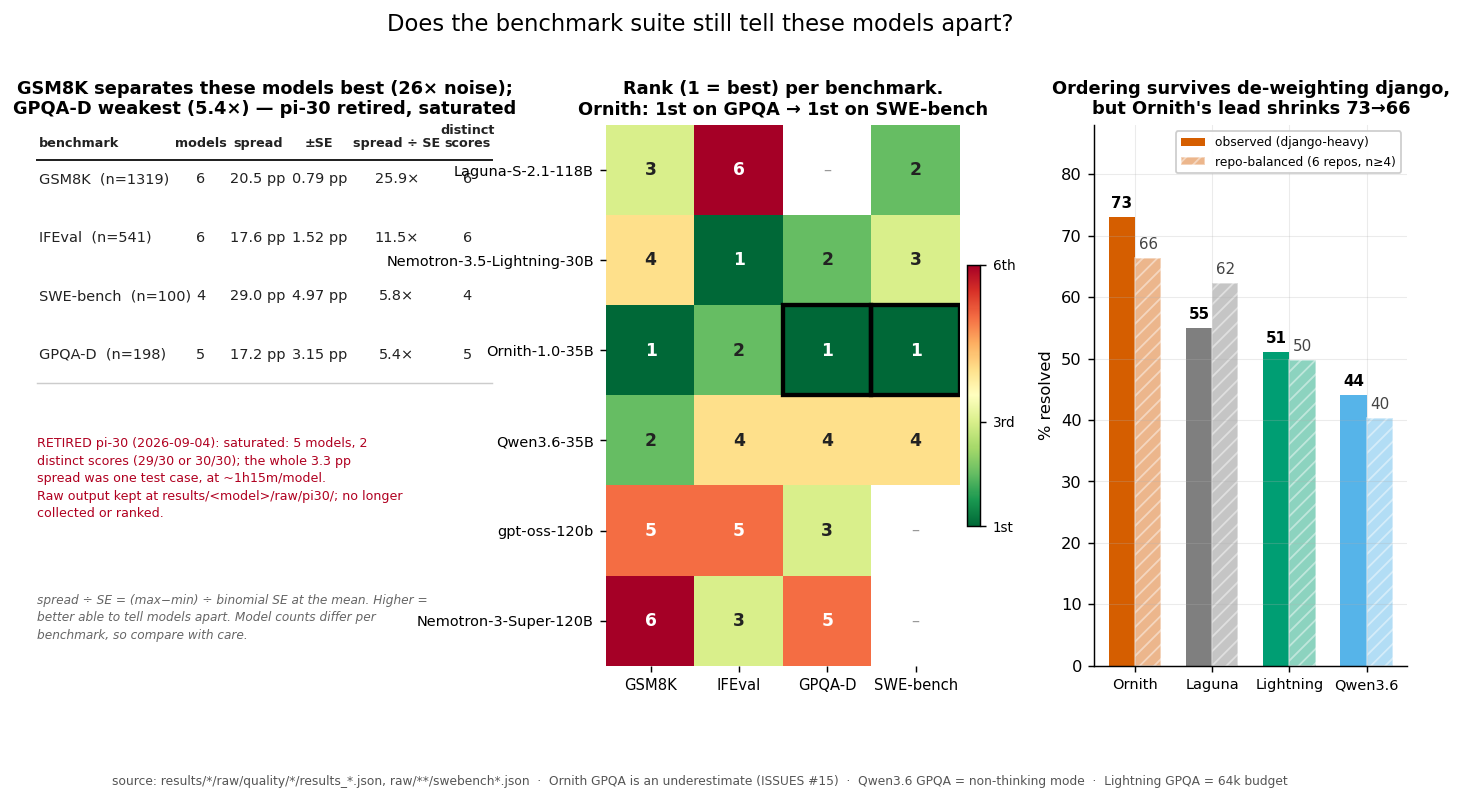
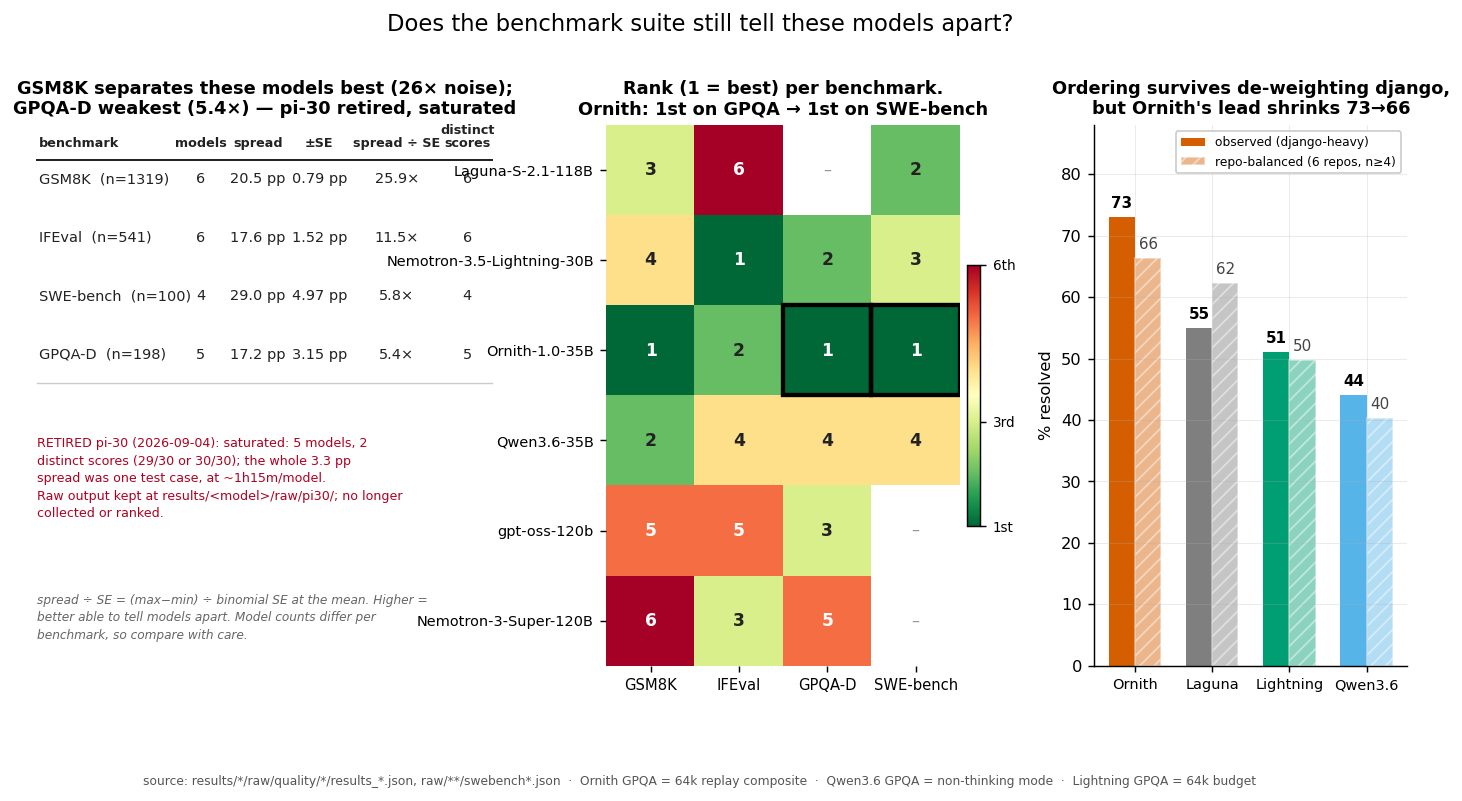
docs: clean stale benchmark guidance (#4)

Changed region(s): [[0.0923, 0.9675, 0.8926, 0.9988]]

diff --git a/viz/fig3_discrimination.py b/viz/fig3_discrimination.py
@@ -210,7 +210,7 @@ def main() -> None:
                  fontsize=12.5, y=1.04)
     fig.text(0.5, -0.06,
              "source: results/*/raw/quality/*/results_*.json, "
-             "raw/**/swebench*.json  \u00b7  Ornith GPQA is an underestimate (ISSUES #15)  \u00b7  "
+             "raw/**/swebench*.json  ·  Ornith GPQA = 64k replay composite  ·  "
              "Qwen3.6 GPQA = non-thinking mode  \u00b7  Lightning GPQA = 64k budget",
              ha="center", fontsize=6.8, color="#555")
     save(fig, "fig3_discrimination")

diff --git a/README.md b/README.md
@@ -57,7 +57,7 @@ django-heavy sample (56/100) is reweighted.
 
 | Model | Serving | GSM8K | IFEval (prompt-strict) | GPQA-Diamond | SWE-bench Verified | Peak tok/s | Full card |
 | ----- | ------- | ----- | ---------------------- | ------------ | ------------------ | ---------- | --------- |
-| [openai/gpt-oss-120b](results/gpt-oss-120b/README.md) | vLLM MXFP4 | 83.7% | 83.7% | 72.7% | blocked² | ~709 (c≈256) | [card](results/gpt-oss-120b/README.md) |
+| [openai/gpt-oss-120b](results/gpt-oss-120b/README.md) | vLLM MXFP4 | 83.7% | 83.7% | 72.7% | not measured² | ~709 (c≈256) | [card](results/gpt-oss-120b/README.md) |
 | [nvidia/Nemotron-3-Super-120B-A12B-NVFP4](results/nemotron-3-super-120b/README.md) | vLLM NVFP4 (MARLIN) | **95.83%**¹⁶ | 85.40% | **73.74%**¹⁵ | — | **244.70 (c=128, floor)**¹⁷ | [card](results/nemotron-3-super-120b/README.md) |
 | [Qwen/Qwen3.6-35B-A3B-FP8](results/qwen3.6-35b-a3b/README.md) | vLLM FP8 (TRITON) | 97.04% | 84.84% | **71.72%**¹⁸ | 44/100 (fair 44/78)¹ | ~487 (c=128) | [card](results/qwen3.6-35b-a3b/README.md) |
 | [nvidia/Nemotron-3.5-Lightning-30B-A3B-NVFP4](results/nemotron-3.5-lightning-30b/README.md) | vLLM NVFP4 (MARLIN) | 95.07% | **93.35%**¹³ | 76.26%³ | 51/100 (fair 51/99)⁵ | **926 (c=384, floor)**¹⁴ | [card](results/nemotron-3.5-lightning-30b/README.md) |
@@ -109,7 +109,7 @@ output is retained under `results/<model>/raw/pi30/`; see the discrimination pan
 
 ⁶ Ornith-1.0-35B-FP8 **would not start at all** on the GB10 until *two* Marlin switches were set. Its `compressed-tensors` **W8A8 FP8** checkpoint hits a GB10 CUTLASS failure in the **dense/linear** FP8 GEMM (`cutlass_gemm_caller … Error Internal` → EngineCore init fails) that is **separate from** the known MoE-experts CUTLASS crash: `--moe-backend marlin` fixes only the experts, and the model still dies. The full fix is `-e VLLM_TEST_FORCE_FP8_MARLIN=1` (routes `CompressedTensorsW8A8Fp8` to `MarlinFP8ScaledMMLinearKernel`) **plus** `--moe-backend marlin`. Despite the `VLLM_TEST_` prefix this is the production-correct setting on this SM. See [ISSUES.md #13](ISSUES.md). The Marlin FP8 path is a compatibility fallback rather than a fast path, which — together with FP8 weights being 2× the bytes of NVFP4 — is why Ornith's ~559 tok/s peak and 36.95 tok/s single-stream sit below Lightning's despite similar total size. Two more bring-up notes: the `qwen3` reasoning parser returns an **empty `reasoning_content`** (though `content` is correctly CoT-stripped), and the model burns a large thinking budget even on trivial prompts (218 reasoning tokens for a one-word answer), so clients must send a generous `max_tokens` (≥4k chat, 32k+ reasoning/agentic) or answers truncate to empty and silently score wrong.
 
-⁷ Ornith-1.0-35B **SWE-bench Verified = 73/100 resolved (73%)** — the **best agentic-coding result in this repo by a wide margin**, on the same seed-42 n=100 shuffle as the Lightning and Qwen3.6 runs (**identical 100 instances**, directly comparable). That is **+22 over Nemotron-3.5-Lightning (51/100)** and **+29 over Qwen3.6-35B (44/100)**. Head-to-head vs Lightning on the shared 100: **46 both-resolved, 27 Ornith-only, 5 Lightning-only, 22 neither** — Ornith wins the exchange better than 5-to-1, which is a real capability gap, not sampling noise, and is consistent with Ornith being purpose-built by DeepReinforce for agentic coding. The number is **clean**: **0 harness errors**, 91/100 received a fair test verdict, and the 9 non-submissions are genuine agent-budget outcomes (8 `LimitsExceeded`, 1 `ContextWindowExceededError`) rather than serving failures — **note this attribution comes from the card's own run log, not a committed `exit_statuses` artifact, which is a known provenance gap** ([PROVENANCE.md](PROVENANCE.md) baseline; `attributed: false` in [`viz/data/swebench_fair.json`](viz/data/swebench_fair.json)). Because all 9 are model-side, the fair denominator is the full 100 and 73.0% is unchanged — but that is the one fair number in the table resting on prose rather than an artifact, so re-emitting Ornith's exit statuses is on the backlog. Notably **the vLLM/GB10 long-context wedge that plagued the Lightning run did not recur** on this stack (`0.27.2rc1` aarch64 + Marlin FP8 at `--gpu-memory-utilization 0.55`), and the robust submit step again yielded zero patch-apply errors. Per-repo: django 44/56, sphinx 8/10, sympy 7/10, scikit-learn 4/5, astropy 2/5, pytest 2/4, xarray 2/3, matplotlib/requests/pylint/flask 1 each. Caveats: **(a)** n=100 shuffled is representative (95% CI 63.6–80.7, roughly ±9 pp), not leaderboard-final; **(b)** the sample is **django-heavy (56/100)** and Ornith is especially strong there (79%), so a balanced 500 would likely land lower; **(c)** 8 instances died on the step/cost limit, so 73 is a mild *under*estimate of reach. **Read this alongside the quality columns:** Ornith is *behind* Lightning and Qwen3.6 on GPQA-Diamond (69.70% vs 76.26%/82.32%) yet far *ahead* on SWE-bench — benchmark rank does not transfer across task families. Its pi-30 score (30/30, including the token-bucket problem P24 that Lightning failed) pointed the same way, though pi-30 has since been retired as saturated.
+⁷ Ornith-1.0-35B **SWE-bench Verified = 73/100 resolved (73%)** — the **best agentic-coding result in this repo by a wide margin**, on the same seed-42 n=100 shuffle as the Lightning and Qwen3.6 runs (**identical 100 instances**, directly comparable). That is **+22 over Nemotron-3.5-Lightning (51/100)** and **+29 over Qwen3.6-35B (44/100)**. Head-to-head vs Lightning on the shared 100: **46 both-resolved, 27 Ornith-only, 5 Lightning-only, 22 neither** — Ornith wins the exchange better than 5-to-1, which is a real capability gap, not sampling noise, and is consistent with Ornith being purpose-built by DeepReinforce for agentic coding. The number is **clean**: **0 harness errors**, 91/100 received a fair test verdict, and the 9 non-submissions are genuine agent-budget outcomes (8 `LimitsExceeded`, 1 `ContextWindowExceededError`) rather than serving failures — **note this attribution comes from the card's own run log, not a committed `exit_statuses` artifact, which is a known provenance gap** ([PROVENANCE.md](PROVENANCE.md) baseline; `attributed: false` in [`viz/data/swebench_fair.json`](viz/data/swebench_fair.json)). Because all 9 are model-side, the fair denominator is the full 100 and 73.0% is unchanged — but that is the one fair number in the table resting on prose rather than an artifact, so re-emitting Ornith's exit statuses is on the backlog. Notably **the vLLM/GB10 long-context wedge that plagued the Lightning run did not recur** on this stack (`0.27.2rc1` aarch64 + Marlin FP8 at `--gpu-memory-utilization 0.55`), and the robust submit step again yielded zero patch-apply errors. Per-repo: django 44/56, sphinx 8/10, sympy 7/10, scikit-learn 4/5, astropy 2/5, pytest 2/4, xarray 2/3, matplotlib/requests/pylint/flask 1 each. Caveats: **(a)** n=100 shuffled is representative (95% CI 63.6–80.7, roughly ±9 pp), not leaderboard-final; **(b)** the sample is **django-heavy (56/100)** and Ornith is especially strong there (79%), so a balanced 500 would likely land lower; **(c)** 8 instances died on the step/cost limit, so 73 is a mild *under*estimate of reach. **Read this alongside the quality columns:** Ornith's corrected 64k GPQA composite (80.81%) and its decisive SWE-bench lead illustrate that benchmark rank does not transfer cleanly across task families; the GPQA figures remain budget-conditional and were produced under different reasoning modes. Its pi-30 score (30/30, including the token-bucket problem P24 that Lightning failed) pointed the same way, though pi-30 has since been retired as saturated.
 
 ⁸ poolside/Laguna-S-2.1-NVFP4 was **newly brought up** (2026-08-22): serving is verified (smoke test, tool calling, and a 60/60 concurrent guided-decoding stress test all pass) and throughput is measured. GSM8K, IFEval and SWE-bench have since been run; **GPQA-Diamond has been run twice, at 32k and 64k output budgets, and now carries a published number** (see footnote ¹¹). Bring-up required **patching vLLM's MoE backend selection** — see [ISSUES.md #14](ISSUES.md). Two things stack: (a) it is a **mixed-quantization** checkpoint (layers 0–39 experts NVFP4, layers 40–47 experts BF16 via `quantization_config.ignore`), so vLLM builds two MoE method objects with **disjoint** legal backends while `--moe-backend` is a single **global** flag — `marlin` is illegal for the unquantized group, `triton` for the NVFP4 group; and (b) the GB10 is **sm_121** while the vLLM aarch64 nightly ships only sm_80/90/100/120 cubins, so letting the oracle auto-select lands on **FlashInfer**, which initialises fine and then dies at the **first decode** with `no kernel image is available for execution on the device` (wrapped misleadingly as `MemoryError` — *not* an OOM). Fix: `--moe-backend marlin` **plus** a `sitecustomize.py` aliasing marlin→TRITON for the unquantized group, gated on capability `(12,1)`. **Sizing:** poolside's own model card says the NVFP4 weights are "roughly 71 GB"; summing the actual safetensors gives **99.7 GB (92.9 GiB)** — ~30% higher, enough to flip a fit verdict. Measured at runtime: 94.48 GiB weights+non-torch leaves only **8.44 GiB KV** (333,604 tokens, 2.55× at 128k). **Throughput:** single-stream is slow at **17.65 tok/s** (~8.5B active params on a bandwidth-bound box, Marlin being a compatibility rather than fast path, and 12 of 48 layers doing global attention); interactive SLO (TPOT<100 ms) holds only to **c=4**. Peak is **~259 tok/s at c≈192, a genuine plateau**: the sweep looked like it was still climbing at c=128 (+40.8%), but c=192 adds only +10.9% and at c=256 the engine admits *fewer* concurrent requests (49 running / 207 queued) — KV-cache pressure, not scheduler headroom, since 94.48 GiB of weights leaves only 8.44 GiB of KV. Latency past c=128 is unusable interactively (mean TTFT 28 s, P99 154 s at c=192). (pi-30 was never run for this model — it runs its agent processes on Warpcore itself and needs ~40 GiB host headroom, which cannot coexist with 94.5 GiB of resident weights — and the benchmark has since been retired as saturated.) A first throughput sweep was **discarded as contaminated** (an lm-eval smoke test overlapped it, cf. [ISSUES #6](ISSUES.md)) and is preserved alongside the clean rerun in the card's `raw/`.
 ¹² **Ornith 64k replay correction (2026-09-06–07).** The original 32k GPQA and 8k IFEval runs silently scored empty final content as zero. We replayed the **byte-identical stored prompts**, preserving temperature, stop strings, and lm-eval's original task scoring. GPQA: of 42 original empties, **27 emitted content at 64k and 22 became correct**, changing **138/198 (69.70%) → 160/198 (80.81%; ±2.80)**; **15/198 (7.6%)** still reached 64k without final content, so 80.81% remains budget-conditional rather than an unconstrained capability claim. IFEval: 28 original empties were replayed; 17 emitted content after escalating the 17 8k-truncated prompts to 64k, and exact lm-eval 0.4.12 strict scoring recovered **16 prompt-level and 26 instruction-level successes**. Prompt-strict changed **463/541 (85.58%) → 479/541 (88.54%; ±1.37)**; **11/541 (2.0%)** remain 64k-truncated. Replay logs, raw responses, scorer output, and corrected per-item CSVs are committed under the Ornith quality directories. **Policy:** 64k is now the standard maximum-generation ceiling for offline reasoning benchmarks; it is a ceiling, not a token reservation, and residual `finish_reason=length` is always reported.
@@ -120,7 +120,7 @@ output is retained under `results/<model>/raw/pi30/`; see the discrimination pan
 
 ¹⁰ Laguna-S-2.1 **SWE-bench Verified = 55/100**, same seed-42 n=100 shuffle as the Ornith, Lightning and Qwen3.6 runs (**identical instances**, directly comparable). The headline number understates the model's coding ability and the breakdown says why: only **10** of the 45 misses were submitted-but-wrong. The other **35 never submitted a patch at all** — 25 `RepeatedFormatError`, 9 `ContextWindowExceeded`, 1 `LimitsExceeded`. **Restricted to the 65 instances where it did submit, 55 resolved = 84.6%, the highest per-submission accuracy in this repo** (Ornith 80.2%, Qwen3.6 66.7%, Lightning 52.0%) — but read that as *accuracy given a gradeable patch*, **not** as a capability ranking: it is computed over 65 instances rather than 100, and it rewards a model for the 35 it never finished. It also excludes model-side failures the repo's reporting rule keeps in the denominator (see LESSONS.md §3). The 25 format failures are the **same `message.reasoning` defect as footnote ⁹** in its agentic form — the reasoning field consumes the output budget and no tool call is emitted — but unlike the lm-eval case they are **not recoverable after the fact**, since no tool call was ever produced to re-parse. Head-to-head vs Ornith on the shared 100: 48 both, 25 Ornith-only, **7 Laguna-only**, 20 neither. Under a repo-balanced reweighting (6 repos with n≥4, removing this sample's django skew) Laguna rises **55→62.3%** while Ornith falls **73→66.4%** — but the bootstrap intervals are far too wide to call it: Laguna **[52.3, 72.9]**, Ornith **[52.3, 80.3]** (10,000-draw stratified percentile bootstrap, [`viz/data/swebench_reweighted.json`](viz/data/swebench_reweighted.json)). Those are 21 and 28 pp wide because the non-django repos hold only 4–10 instances each, where one problem moves a repo's rate 10–25 pp. Read it as **directional evidence that the django skew flatters Ornith, not as a measured re-ranking**. Two grading caveats, neither affecting what the model generated: `scikit-learn-14710` initially hit the harness's 1800 s test timeout at `max_workers=4` and **resolved** when re-graded at `max_workers=2 -t 7200`; `sympy-19040` exceeded even 7200 s because its patch introduces an unbounded recursion, and is counted **unresolved** (a model failure, not a harness one). Generation took **79 h** at `workers=4` — see the card's [`WHY_SLOW.md`](results/laguna-s-2.1-118b/raw/swebench/WHY_SLOW.md) for the measured bandwidth analysis. Full provenance in [`manifest.json`](results/laguna-s-2.1-118b/raw/swebench/manifest.json); all 100 trajectories are committed.
 
-¹¹ **Laguna GPQA-Diamond = 40.40%, and it is capability-limited, not budget-limited.** Two full n=198 runs were completed at different output budgets and they are **statistically indistinguishable**: **32k → 40.40%** (`answer-line`; 41.92% flexible, 95% CI 33.8–47.4, 24 h 21 m) and **64k → 37.88%** (38.38% flexible, 95% CI 31.4–44.8, 53 h 47 m). Paired item-by-item: 58 both-correct, 22 32k-only, 17 64k-only, 101 neither — **−2.53 pp [−8.7, +3.7], McNemar χ²=0.41, p=0.52**. Both runs had **0 TimeoutErrors**. The published cell is the 32k figure as the better-powered of two equivalent measurements; the 64k run is committed alongside it. <br><br> **This reverses the earlier "withheld pending a 64k re-run" position, and the reasoning that produced it was wrong.** The 32k run was withheld on the theory that its 47% no-answer rate was truncation, by analogy with footnote ³ (Lightning gained 23 points from 16k→64k). Doubling Laguna's budget did **not** reproduce that: measured with the model's own tokenizer, items sitting **at the cap** went **95/198 (48.0%) at 32k → 104/198 (52.5%) at 64k**, and **82 items hit the ceiling in *both* runs**, scoring 2/82 either way. Of the 65 items that answered in neither run, **65/65 generated *more* text at 64k**. Their tails are mid-sentence loops (*"Wait, but in a typical Wittig reaction…"*), not truncated conclusions. The failure mode is **non-termination on hard items** — the model does not converge, so a larger budget buys more tokens of the same circling. Median completion went 756 → 65,537 tokens and total generation 3.14M → 6.88M tokens **for no score change**. <br><br> **CORRECTION (2026-08-30):** an interim analysis posted during the 64k run claimed "0 items pinned at the ceiling" and predicted ~64–76%. That was an arithmetic error: it estimated tokens from character counts using a single 5.25 chars/token ratio taken from one max-length sample. The model's true ratio is **2.05–3.98** (math and code tokenize far denser than prose), so the assumed ceiling was inflated ~70% and generations sitting exactly on the cap were misread as having headroom. Character length is not a proxy for token count. The corrected census is committed as [`token_census_32k_vs_64k.json`](results/laguna-s-2.1-118b/raw/quality/gpqa/token_census_32k_vs_64k.json). <br><br> **Comparability — read before ranking this cell.** Laguna's 40.40% is **not** directly comparable to Ornith's 69.70%⁹ or Lightning's 76.26%³. Both Laguna runs were **patched** for the `message.reasoning` defect (footnote ⁹; the fallback fired 95× at 32k and 105× at 64k) whereas Ornith's number is **unpatched** and separately depressed by 42 empty items. More importantly, GPQA scores in this table are all **budget-conditional**, and the conditioning differs per model: Lightning's 76.26% is *itself* a 64k figure that was 53.03% at 16k. What is comparable is the shape of the failure: Lightning reached **97% of items answering** at 64k, Laguna reaches **51%**. Among items Laguna does finish, accuracy is **76.19%** (32k) / **83.33%** (64k) — competitive — but that subset is non-random and selects for shorter, easier problems, so it is an **upper bound, not a score**. <br><br> **A 128k re-run is not recommended.** It would cost ~100 h+ to test a hypothesis both runs already falsified; the 82-item core shows no sign of converging. The productive lever is a stop condition (reasoning-effort control or a hard CoT budget with forced answer emission), not more tokens. Reproduce the whole comparison from committed artifacts with `python3 viz/compare_gpqa_budgets.py results/laguna-s-2.1-118b/raw/quality/gpqa/samples_gpqa_diamond_cot_zeroshot_clean.jsonl.gz results/laguna-s-2.1-118b/raw/quality/gpqa/samples_gpqa_diamond_cot_zeroshot_clean_64k.jsonl.gz --census results/laguna-s-2.1-118b/raw/quality/gpqa/token_census_32k_vs_64k.json` (exit 0 = indistinguishable). Full provenance in [`manifest.json`](results/laguna-s-2.1-118b/raw/quality/gpqa/manifest.json); see also [ISSUES #17](ISSUES.md).
+¹¹ **Laguna GPQA-Diamond = 40.40%, and it is capability-limited, not budget-limited.** Two full n=198 runs were completed at different output budgets and they are **statistically indistinguishable**: **32k → 40.40%** (`answer-line`; 41.92% flexible, 95% CI 33.8–47.4, 24 h 21 m) and **64k → 37.88%** (38.38% flexible, 95% CI 31.4–44.8, 53 h 47 m). Paired item-by-item: 58 both-correct, 22 32k-only, 17 64k-only, 101 neither — **−2.53 pp [−8.7, +3.7], McNemar χ²=0.41, p=0.52**. Both runs had **0 TimeoutErrors**. The published cell is the 32k figure as the better-powered of two equivalent measurements; the 64k run is committed alongside it. <br><br> **This reverses the earlier "withheld pending a 64k re-run" position, and the reasoning that produced it was wrong.** The 32k run was withheld on the theory that its 47% no-answer rate was truncation, by analogy with footnote ³ (Lightning gained 23 points from 16k→64k). Doubling Laguna's budget did **not** reproduce that: measured with the model's own tokenizer, items sitting **at the cap** went **95/198 (48.0%) at 32k → 104/198 (52.5%) at 64k**, and **82 items hit the ceiling in *both* runs**, scoring 2/82 either way. Of the 65 items that answered in neither run, **65/65 generated *more* text at 64k**. Their tails are mid-sentence loops (*"Wait, but in a typical Wittig reaction…"*), not truncated conclusions. The failure mode is **non-termination on hard items** — the model does not converge, so a larger budget buys more tokens of the same circling. Median completion went 756 → 65,537 tokens and total generation 3.14M → 6.88M tokens **for no score change**. <br><br> **CORRECTION (2026-08-30):** an interim analysis posted during the 64k run claimed "0 items pinned at the ceiling" and predicted ~64–76%. That was an arithmetic error: it estimated tokens from character counts using a single 5.25 chars/token ratio taken from one max-length sample. The model's true ratio is **2.05–3.98** (math and code tokenize far denser than prose), so the assumed ceiling was inflated ~70% and generations sitting exactly on the cap were misread as having headroom. Character length is not a proxy for token count. The corrected census is committed as [`token_census_32k_vs_64k.json`](results/laguna-s-2.1-118b/raw/quality/gpqa/token_census_32k_vs_64k.json). <br><br> **Comparability — read before ranking this cell.** Laguna's 40.40% is **not** directly comparable to Ornith's 80.81% 64k replay composite or Lightning's 76.26% 64k figure. Laguna's runs required the `message.reasoning` fallback described in footnote ⁹, while Ornith's corrected composite used byte-identical 64k replay of the affected items. More importantly, GPQA scores in this table are all **budget-conditional**, and the conditioning differs per model: Lightning's 76.26% is *itself* a 64k figure that was 53.03% at 16k. What is comparable is the shape of the failure: Lightning reached **97% of items answering** at 64k, Laguna reaches **51%**. Among items Laguna does finish, accuracy is **76.19%** (32k) / **83.33%** (64k) — competitive — but that subset is non-random and selects for shorter, easier problems, so it is an **upper bound, not a score**. <br><br> **A 128k re-run is not recommended.** It would cost ~100 h+ to test a hypothesis both runs already falsified; the 82-item core shows no sign of converging. The productive lever is a stop condition (reasoning-effort control or a hard CoT budget with forced answer emission), not more tokens. Reproduce the whole comparison from committed artifacts with `python3 viz/compare_gpqa_budgets.py results/laguna-s-2.1-118b/raw/quality/gpqa/samples_gpqa_diamond_cot_zeroshot_clean.jsonl.gz results/laguna-s-2.1-118b/raw/quality/gpqa/samples_gpqa_diamond_cot_zeroshot_clean_64k.jsonl.gz --census results/laguna-s-2.1-118b/raw/quality/gpqa/token_census_32k_vs_64k.json` (exit 0 = indistinguishable). Full provenance in [`manifest.json`](results/laguna-s-2.1-118b/raw/quality/gpqa/manifest.json); see also [ISSUES #17](ISSUES.md).
 
 ¹⁵ **Nemotron-3-Super GPQA 64k replay correction (2026-09-09).** The original 16k run scored **126/198 (63.64%)** and returned empty final content for 56 prompts. Replaying those exact stored prompts at 64k recovered final content for **25/56**, of which **20 were correct**, yielding a corrected composite **146/198 (73.74%)**. The remaining **31/198 (15.7%)** all ended `finish_reason=length` at exactly 65,536 completion tokens and remain counted wrong. The replay had zero HTTP errors, took **44,858.7 s (12.46 h)** at concurrency 8, and its median completion length was the full 65,536-token ceiling. Therefore 73.74% is a measured 64k operational score, not an unconstrained capability ceiling. Raw responses and corrected-composite provenance are retained under the model's GPQA quality directory.
 
@@ -144,7 +144,8 @@ output is retained under `results/<model>/raw/pi30/`; see the discrimination pan
   random 100-instance sample (not the full 500), on a **fixed seed-42 shuffle** so every model here covers the
   **identical 100 instances** and the scores are directly comparable. Ornith-1.0-35B leads on the nominal
   count at 73/100, and **leads Laguna-S-2.1 on the paired test at every denominator** (all 100: 73.0% vs 55.0%, p=0.002; on Laguna's fair 75: 80.0% vs 73.3%, p=0.36 — not distinguishable, which is not a tie) — see the
-  note under the table. gpt-oss-120b's SWE-bench run is blocked by a vLLM tool-call serving bug (see its card).
+  note under the table. gpt-oss-120b's SWE-bench cell is not measured because its custom tool protocol
+  did not pass the frozen production qualification on the tested vLLM stack (see its card).
   [pi-30](https://github.com/rick-stevens-ai/pi-30) (30 agentic-coding problems, verifier-graded) was **retired
   2026-09-04** as saturated and is no longer run.
 

diff --git a/results/qwen3.5-122b-a10b/README.md b/results/qwen3.5-122b-a10b/README.md
@@ -112,8 +112,8 @@ it, so single-stream could plausibly ~1.5–2× with speculative decoding.
 
 ## Quality
 
-**Not yet measured on Warpcore.** No lm-eval quality card (GSM8K / IFEval / GPQA-Diamond) or agentic
-(pi-30 / SWE-bench) numbers have been produced for this model yet — this card covers **serving
+**Not yet measured on Warpcore.** No lm-eval quality card (GSM8K / IFEval / GPQA-Diamond) or
+SWE-bench number has been produced for this model yet — this card covers **serving
 bring-up + a functional smoke test + a throughput sweep**. Run the lm-eval pipeline
 (`lm-eval-vllm-endpoint` skill) against the chat endpoint next to fill this in (note the reasoning
 parser caveat above — verify `<think>` handling before trusting MCQ extraction).
@@ -123,7 +123,7 @@ parser caveat above — verify `<think>` handling before trusting MCQ extraction
 - **MTP / speculative decoding.** The headline lever to reproduce the Reddit ~50 tok/s single-stream
   figure. Baseline here is deliberately MTP-off for a clean number.
 - **Quality suite** (GSM8K, IFEval, GPQA-Diamond) via lm-eval against the chat endpoint.
-- **Agentic** (pi-30, SWE-bench Verified 100-sample) — verify tool-calling (`qwen3_xml` parser) returns
+- **Agentic** (SWE-bench Verified 100-sample) — verify tool-calling (`qwen3_xml` parser) returns
   native `finish_reason: tool_calls` first, or every task scores 0.
 - **Fix the `<think>` reasoning-parser split** (chat-template / parser mismatch) so `reasoning_content`
   is populated correctly — required for clean MCQ answer extraction in lm-eval.

diff --git a/viz/README.md b/viz/README.md
@@ -36,7 +36,7 @@ doesn't tell you the point, the panel has failed.
 viz/
   common.py               palette, plot style, Wilson/McNemar/binomial-SE helpers
   parse_sweeps.py         results/*/raw/throughput_sweep/* -> data/throughput_all.csv
-  collect_matrix.py       quality + pi-30 + SWE-bench artifacts -> data/bench_matrix.json
+  collect_matrix.py       quality + historical pi-30 + SWE-bench artifacts -> data/bench_matrix.json
   fig1_pareto.py          serving envelope
   fig2_swebench.py        SWE-bench Verified, paired analysis
   fig3_discrimination.py  benchmark discrimination + rank transfer
@@ -61,8 +61,8 @@ viz/
 
 These are visible on the figures themselves, not buried here:
 
-- **Ornith GPQA (69.70%) is an underestimate** — 21.2% of items returned empty
-  content (ISSUES #15). It is a floor, not an estimate.
+- **Ornith GPQA is a 64k replay composite (80.81%)** — 15/198 items still ended
+  `finish_reason=length` and remain counted wrong. It is a budget-conditional result.
 - **Qwen3.6 GPQA is non-thinking mode**; Lightning's GPQA is a 64k-budget
   composite (32k run + 64k replay of truncated items, 151/198).
 - **Empty patches are not wrong answers.** They are runs that never finished, so

diff --git a/TODO.md b/TODO.md
@@ -489,9 +489,7 @@ Tooling, so the standard is cheaper to follow than to skip:
       per-item evidence, infrastructure runtime errors, zero graded verdicts, and incomplete
       inventories. A global 2% threshold would make immutable historical evidence permanently red
       and would conflate legitimate 64k `finish_reason=length` outcomes with parser loss.
-      *(Note: the label `6i` is used twice in this file -- see also line ~400, "Reconcile
-      `launch_ornith.sh`". Left as-is rather than renumbered, since both are referenced elsewhere.)*
-- [x] **6j. Preflight the endpoint before launching a quality run.** DONE.
+- [x] **6k. Preflight the endpoint before launching a quality run.** DONE.
       `viz/preflight_serving.py` sends 3 short probes and refuses to launch when answers are being
       dropped. `make preflight-serving` (live) / `make preflight-selftest` (fixtures, in CI).
 

diff --git a/RUNBOOK.md b/RUNBOOK.md
@@ -194,9 +194,10 @@ Is it a vendor-recommended specific version?
   → use that exact image, e.g. vllm/vllm-openai:v0.27.1 (Lightning)
 ```
 
-**NEVER use the `openai-gpt-oss-120b` recipe for tool-calling/agentic workloads.**
-It uses CUTLASS MXFP4 + FlashInfer which crashes under concurrent structured-output requests.
-For SWE-bench or pi-30, use the `eugr/spark-vllm:latest` container with `--moe-backend marlin`.
+**Do not launch new canonical agentic campaigns with the `openai-gpt-oss-120b` recipe.**
+Its custom Harmony/tool protocol did not pass the frozen production qualification on the tested
+vLLM stack. Preserve its retained runs as diagnostic evidence rather than treating a serving change
+as a canonical harness repair. pi-30 is retired and must not be run for new model comparisons.
 
 ---
 
